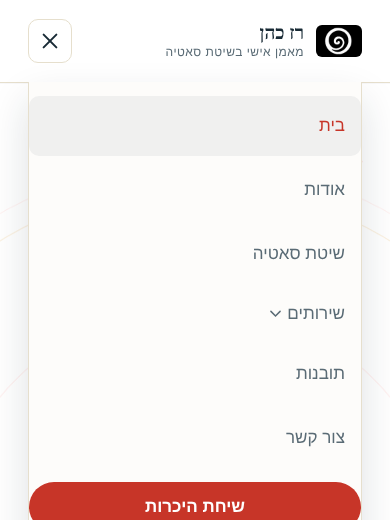
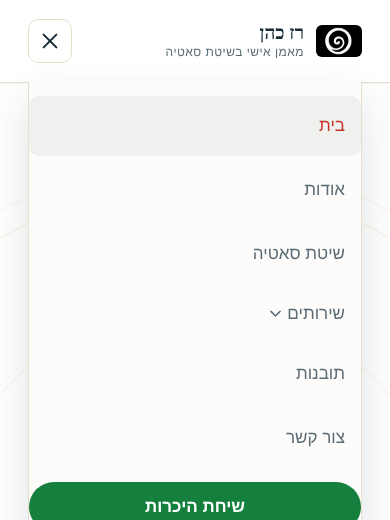
גרסת תוכן לקבצי CSS/JS (#56)
Claude-Session: https://claude.ai/code/session_019EitDQha8axd4jQ3HvUzVX

Changed region(s): [[0.0615, 0.9231, 0.9231, 1.0]]

diff --git a/satya-site/insights/forgiveness.html b/satya-site/insights/forgiveness.html
@@ -104,7 +104,7 @@
 <link rel="preconnect" href="https://fonts.googleapis.com">
 <link rel="preconnect" href="https://fonts.gstatic.com" crossorigin>
 <link rel="stylesheet" href="https://fonts.googleapis.com/css2?family=Frank+Ruhl+Libre:wght@400;500;700&family=Heebo:wght@400;500;600;700&display=swap">
-<link rel="stylesheet" href="../assets/styles.css">
+<link rel="stylesheet" href="../assets/styles.css?v=cc48cf5c">
 <noscript><style>.reveal{opacity:1!important;transform:none!important}</style></noscript>
 </head>
 <body>
@@ -312,6 +312,6 @@
   <svg viewBox="0 0 24 24" fill="#fff" aria-hidden="true" xmlns="http://www.w3.org/2000/svg"><path d="M12.04 2C6.58 2 2.13 6.45 2.13 11.91c0 1.75.46 3.45 1.32 4.95L2.05 22l5.25-1.38a9.9 9.9 0 0 0 4.74 1.21h.01c5.46 0 9.91-4.45 9.91-9.91C21.96 6.45 17.5 2 12.04 2Zm0 18.13h-.01a8.2 8.2 0 0 1-4.19-1.15l-.3-.18-3.12.82.83-3.04-.2-.31a8.2 8.2 0 0 1-1.26-4.36c0-4.54 3.7-8.24 8.25-8.24 2.2 0 4.27.86 5.83 2.42a8.18 8.18 0 0 1 2.41 5.83c0 4.55-3.7 8.21-8.24 8.21Zm4.52-6.16c-.25-.12-1.47-.72-1.69-.81-.23-.08-.39-.12-.56.13-.17.24-.64.81-.78.97-.15.17-.29.19-.53.06-.25-.12-1.05-.39-2-1.23-.74-.66-1.24-1.47-1.38-1.72-.15-.24-.02-.38.11-.5.11-.11.25-.29.37-.43.12-.15.16-.25.24-.41.08-.17.04-.31-.02-.44-.06-.12-.56-1.35-.77-1.85-.2-.48-.41-.42-.56-.42h-.48c-.17 0-.44.06-.67.31-.23.24-.87.85-.87 2.08 0 1.22.89 2.4 1.02 2.57.12.17 1.75 2.67 4.25 3.74.59.26 1.06.41 1.42.53.6.19 1.14.16 1.57.1.48-.07 1.47-.6 1.68-1.18.21-.58.21-1.08.14-1.18-.06-.1-.23-.16-.48-.28Z"/></svg>
 </a>
 
-<script src="../assets/script.js"></script>
+<script src="../assets/script.js?v=8dfb32e8"></script>
 </body>
 </html>

diff --git a/satya-site/insights/habits-and-change.html b/satya-site/insights/habits-and-change.html
@@ -104,7 +104,7 @@
 <link rel="preconnect" href="https://fonts.googleapis.com">
 <link rel="preconnect" href="https://fonts.gstatic.com" crossorigin>
 <link rel="stylesheet" href="https://fonts.googleapis.com/css2?family=Frank+Ruhl+Libre:wght@400;500;700&family=Heebo:wght@400;500;600;700&display=swap">
-<link rel="stylesheet" href="../assets/styles.css">
+<link rel="stylesheet" href="../assets/styles.css?v=cc48cf5c">
 <noscript><style>.reveal{opacity:1!important;transform:none!important}</style></noscript>
 </head>
 <body>
@@ -305,6 +305,6 @@
   <svg viewBox="0 0 24 24" fill="#fff" aria-hidden="true" xmlns="http://www.w3.org/2000/svg"><path d="M12.04 2C6.58 2 2.13 6.45 2.13 11.91c0 1.75.46 3.45 1.32 4.95L2.05 22l5.25-1.38a9.9 9.9 0 0 0 4.74 1.21h.01c5.46 0 9.91-4.45 9.91-9.91C21.96 6.45 17.5 2 12.04 2Zm0 18.13h-.01a8.2 8.2 0 0 1-4.19-1.15l-.3-.18-3.12.82.83-3.04-.2-.31a8.2 8.2 0 0 1-1.26-4.36c0-4.54 3.7-8.24 8.25-8.24 2.2 0 4.27.86 5.83 2.42a8.18 8.18 0 0 1 2.41 5.83c0 4.55-3.7 8.21-8.24 8.21Zm4.52-6.16c-.25-.12-1.47-.72-1.69-.81-.23-.08-.39-.12-.56.13-.17.24-.64.81-.78.97-.15.17-.29.19-.53.06-.25-.12-1.05-.39-2-1.23-.74-.66-1.24-1.47-1.38-1.72-.15-.24-.02-.38.11-.5.11-.11.25-.29.37-.43.12-.15.16-.25.24-.41.08-.17.04-.31-.02-.44-.06-.12-.56-1.35-.77-1.85-.2-.48-.41-.42-.56-.42h-.48c-.17 0-.44.06-.67.31-.23.24-.87.85-.87 2.08 0 1.22.89 2.4 1.02 2.57.12.17 1.75 2.67 4.25 3.74.59.26 1.06.41 1.42.53.6.19 1.14.16 1.57.1.48-.07 1.47-.6 1.68-1.18.21-.58.21-1.08.14-1.18-.06-.1-.23-.16-.48-.28Z"/></svg>
 </a>
 
-<script src="../assets/script.js"></script>
+<script src="../assets/script.js?v=8dfb32e8"></script>
 </body>
 </html>

diff --git a/satya-site/insights/intimacy-vulnerability.html b/satya-site/insights/intimacy-vulnerability.html
@@ -104,7 +104,7 @@
 <link rel="preconnect" href="https://fonts.googleapis.com">
 <link rel="preconnect" href="https://fonts.gstatic.com" crossorigin>
 <link rel="stylesheet" href="https://fonts.googleapis.com/css2?family=Frank+Ruhl+Libre:wght@400;500;700&family=Heebo:wght@400;500;600;700&display=swap">
-<link rel="stylesheet" href="../assets/styles.css">
+<link rel="stylesheet" href="../assets/styles.css?v=cc48cf5c">
 <noscript><style>.reveal{opacity:1!important;transform:none!important}</style></noscript>
 </head>
 <body>
@@ -306,6 +306,6 @@
   <svg viewBox="0 0 24 24" fill="#fff" aria-hidden="true" xmlns="http://www.w3.org/2000/svg"><path d="M12.04 2C6.58 2 2.13 6.45 2.13 11.91c0 1.75.46 3.45 1.32 4.95L2.05 22l5.25-1.38a9.9 9.9 0 0 0 4.74 1.21h.01c5.46 0 9.91-4.45 9.91-9.91C21.96 6.45 17.5 2 12.04 2Zm0 18.13h-.01a8.2 8.2 0 0 1-4.19-1.15l-.3-.18-3.12.82.83-3.04-.2-.31a8.2 8.2 0 0 1-1.26-4.36c0-4.54 3.7-8.24 8.25-8.24 2.2 0 4.27.86 5.83 2.42a8.18 8.18 0 0 1 2.41 5.83c0 4.55-3.7 8.21-8.24 8.21Zm4.52-6.16c-.25-.12-1.47-.72-1.69-.81-.23-.08-.39-.12-.56.13-.17.24-.64.81-.78.97-.15.17-.29.19-.53.06-.25-.12-1.05-.39-2-1.23-.74-.66-1.24-1.47-1.38-1.72-.15-.24-.02-.38.11-.5.11-.11.25-.29.37-.43.12-.15.16-.25.24-.41.08-.17.04-.31-.02-.44-.06-.12-.56-1.35-.77-1.85-.2-.48-.41-.42-.56-.42h-.48c-.17 0-.44.06-.67.31-.23.24-.87.85-.87 2.08 0 1.22.89 2.4 1.02 2.57.12.17 1.75 2.67 4.25 3.74.59.26 1.06.41 1.42.53.6.19 1.14.16 1.57.1.48-.07 1.47-.6 1.68-1.18.21-.58.21-1.08.14-1.18-.06-.1-.23-.16-.48-.28Z"/></svg>
 </a>
 
-<script src="../assets/script.js"></script>
+<script src="../assets/script.js?v=8dfb32e8"></script>
 </body>
 </html>

diff --git a/satya-site/insights/karma.html b/satya-site/insights/karma.html
@@ -104,7 +104,7 @@
 <link rel="preconnect" href="https://fonts.googleapis.com">
 <link rel="preconnect" href="https://fonts.gstatic.com" crossorigin>
 <link rel="stylesheet" href="https://fonts.googleapis.com/css2?family=Frank+Ruhl+Libre:wght@400;500;700&family=Heebo:wght@400;500;600;700&display=swap">
-<link rel="stylesheet" href="../assets/styles.css">
+<link rel="stylesheet" href="../assets/styles.css?v=cc48cf5c">
 <noscript><style>.reveal{opacity:1!important;transform:none!important}</style></noscript>
 </head>
 <body>
@@ -302,6 +302,6 @@
   <svg viewBox="0 0 24 24" fill="#fff" aria-hidden="true" xmlns="http://www.w3.org/2000/svg"><path d="M12.04 2C6.58 2 2.13 6.45 2.13 11.91c0 1.75.46 3.45 1.32 4.95L2.05 22l5.25-1.38a9.9 9.9 0 0 0 4.74 1.21h.01c5.46 0 9.91-4.45 9.91-9.91C21.96 6.45 17.5 2 12.04 2Zm0 18.13h-.01a8.2 8.2 0 0 1-4.19-1.15l-.3-.18-3.12.82.83-3.04-.2-.31a8.2 8.2 0 0 1-1.26-4.36c0-4.54 3.7-8.24 8.25-8.24 2.2 0 4.27.86 5.83 2.42a8.18 8.18 0 0 1 2.41 5.83c0 4.55-3.7 8.21-8.24 8.21Zm4.52-6.16c-.25-.12-1.47-.72-1.69-.81-.23-.08-.39-.12-.56.13-.17.24-.64.81-.78.97-.15.17-.29.19-.53.06-.25-.12-1.05-.39-2-1.23-.74-.66-1.24-1.47-1.38-1.72-.15-.24-.02-.38.11-.5.11-.11.25-.29.37-.43.12-.15.16-.25.24-.41.08-.17.04-.31-.02-.44-.06-.12-.56-1.35-.77-1.85-.2-.48-.41-.42-.56-.42h-.48c-.17 0-.44.06-.67.31-.23.24-.87.85-.87 2.08 0 1.22.89 2.4 1.02 2.57.12.17 1.75 2.67 4.25 3.74.59.26 1.06.41 1.42.53.6.19 1.14.16 1.57.1.48-.07 1.47-.6 1.68-1.18.21-.58.21-1.08.14-1.18-.06-.1-.23-.16-.48-.28Z"/></svg>
 </a>
 
-<script src="../assets/script.js"></script>
+<script src="../assets/script.js?v=8dfb32e8"></script>
 </body>
 </html>

diff --git a/satya-site/insights/presence.html b/satya-site/insights/presence.html
@@ -104,7 +104,7 @@
 <link rel="preconnect" href="https://fonts.googleapis.com">
 <link rel="preconnect" href="https://fonts.gstatic.com" crossorigin>
 <link rel="stylesheet" href="https://fonts.googleapis.com/css2?family=Frank+Ruhl+Libre:wght@400;500;700&family=Heebo:wght@400;500;600;700&display=swap">
-<link rel="stylesheet" href="../assets/styles.css">
+<link rel="stylesheet" href="../assets/styles.css?v=cc48cf5c">
 <noscript><style>.reveal{opacity:1!important;transform:none!important}</style></noscript>
 </head>
 <body>
@@ -301,6 +301,6 @@
   <svg viewBox="0 0 24 24" fill="#fff" aria-hidden="true" xmlns="http://www.w3.org/2000/svg"><path d="M12.04 2C6.58 2 2.13 6.45 2.13 11.91c0 1.75.46 3.45 1.32 4.95L2.05 22l5.25-1.38a9.9 9.9 0 0 0 4.74 1.21h.01c5.46 0 9.91-4.45 9.91-9.91C21.96 6.45 17.5 2 12.04 2Zm0 18.13h-.01a8.2 8.2 0 0 1-4.19-1.15l-.3-.18-3.12.82.83-3.04-.2-.31a8.2 8.2 0 0 1-1.26-4.36c0-4.54 3.7-8.24 8.25-8.24 2.2 0 4.27.86 5.83 2.42a8.18 8.18 0 0 1 2.41 5.83c0 4.55-3.7 8.21-8.24 8.21Zm4.52-6.16c-.25-.12-1.47-.72-1.69-.81-.23-.08-.39-.12-.56.13-.17.24-.64.81-.78.97-.15.17-.29.19-.53.06-.25-.12-1.05-.39-2-1.23-.74-.66-1.24-1.47-1.38-1.72-.15-.24-.02-.38.11-.5.11-.11.25-.29.37-.43.12-.15.16-.25.24-.41.08-.17.04-.31-.02-.44-.06-.12-.56-1.35-.77-1.85-.2-.48-.41-.42-.56-.42h-.48c-.17 0-.44.06-.67.31-.23.24-.87.85-.87 2.08 0 1.22.89 2.4 1.02 2.57.12.17 1.75 2.67 4.25 3.74.59.26 1.06.41 1.42.53.6.19 1.14.16 1.57.1.48-.07 1.47-.6 1.68-1.18.21-.58.21-1.08.14-1.18-.06-.1-.23-.16-.48-.28Z"/></svg>
 </a>
 
-<script src="../assets/script.js"></script>
+<script src="../assets/script.js?v=8dfb32e8"></script>
 </body>
 </html>

diff --git a/satya-site/insights/transformation.html b/satya-site/insights/transformation.html
@@ -104,7 +104,7 @@
 <link rel="preconnect" href="https://fonts.googleapis.com">
 <link rel="preconnect" href="https://fonts.gstatic.com" crossorigin>
 <link rel="stylesheet" href="https://fonts.googleapis.com/css2?family=Frank+Ruhl+Libre:wght@400;500;700&family=Heebo:wght@400;500;600;700&display=swap">
-<link rel="stylesheet" href="../assets/styles.css">
+<link rel="stylesheet" href="../assets/styles.css?v=cc48cf5c">
 <noscript><style>.reveal{opacity:1!important;transform:none!important}</style></noscript>
 </head>
 <body>
@@ -305,6 +305,6 @@
   <svg viewBox="0 0 24 24" fill="#fff" aria-hidden="true" xmlns="http://www.w3.org/2000/svg"><path d="M12.04 2C6.58 2 2.13 6.45 2.13 11.91c0 1.75.46 3.45 1.32 4.95L2.05 22l5.25-1.38a9.9 9.9 0 0 0 4.74 1.21h.01c5.46 0 9.91-4.45 9.91-9.91C21.96 6.45 17.5 2 12.04 2Zm0 18.13h-.01a8.2 8.2 0 0 1-4.19-1.15l-.3-.18-3.12.82.83-3.04-.2-.31a8.2 8.2 0 0 1-1.26-4.36c0-4.54 3.7-8.24 8.25-8.24 2.2 0 4.27.86 5.83 2.42a8.18 8.18 0 0 1 2.41 5.83c0 4.55-3.7 8.21-8.24 8.21Zm4.52-6.16c-.25-.12-1.47-.72-1.69-.81-.23-.08-.39-.12-.56.13-.17.24-.64.81-.78.97-.15.17-.29.19-.53.06-.25-.12-1.05-.39-2-1.23-.74-.66-1.24-1.47-1.38-1.72-.15-.24-.02-.38.11-.5.11-.11.25-.29.37-.43.12-.15.16-.25.24-.41.08-.17.04-.31-.02-.44-.06-.12-.56-1.35-.77-1.85-.2-.48-.41-.42-.56-.42h-.48c-.17 0-.44.06-.67.31-.23.24-.87.85-.87 2.08 0 1.22.89 2.4 1.02 2.57.12.17 1.75 2.67 4.25 3.74.59.26 1.06.41 1.42.53.6.19 1.14.16 1.57.1.48-.07 1.47-.6 1.68-1.18.21-.58.21-1.08.14-1.18-.06-.1-.23-.16-.48-.28Z"/></svg>
 </a>
 
-<script src="../assets/script.js"></script>
+<script src="../assets/script.js?v=8dfb32e8"></script>
 </body>
 </html>

diff --git a/satya-site/404.html b/satya-site/404.html
@@ -12,7 +12,7 @@
 <link rel="preconnect" href="https://fonts.googleapis.com">
 <link rel="preconnect" href="https://fonts.gstatic.com" crossorigin>
 <link rel="stylesheet" href="https://fonts.googleapis.com/css2?family=Frank+Ruhl+Libre:wght@400;500;700&family=Heebo:wght@400;500;600;700&display=swap">
-<link rel="stylesheet" href="/assets/styles.css">
+<link rel="stylesheet" href="/assets/styles.css?v=cc48cf5c">
 <noscript><style>.reveal{opacity:1!important;transform:none!important}</style></noscript>
 </head>
 <body>
@@ -208,6 +208,6 @@
   <svg viewBox="0 0 24 24" fill="#fff" aria-hidden="true" xmlns="http://www.w3.org/2000/svg"><path d="M12.04 2C6.58 2 2.13 6.45 2.13 11.91c0 1.75.46 3.45 1.32 4.95L2.05 22l5.25-1.38a9.9 9.9 0 0 0 4.74 1.21h.01c5.46 0 9.91-4.45 9.91-9.91C21.96 6.45 17.5 2 12.04 2Zm0 18.13h-.01a8.2 8.2 0 0 1-4.19-1.15l-.3-.18-3.12.82.83-3.04-.2-.31a8.2 8.2 0 0 1-1.26-4.36c0-4.54 3.7-8.24 8.25-8.24 2.2 0 4.27.86 5.83 2.42a8.18 8.18 0 0 1 2.41 5.83c0 4.55-3.7 8.21-8.24 8.21Zm4.52-6.16c-.25-.12-1.47-.72-1.69-.81-.23-.08-.39-.12-.56.13-.17.24-.64.81-.78.97-.15.17-.29.19-.53.06-.25-.12-1.05-.39-2-1.23-.74-.66-1.24-1.47-1.38-1.72-.15-.24-.02-.38.11-.5.11-.11.25-.29.37-.43.12-.15.16-.25.24-.41.08-.17.04-.31-.02-.44-.06-.12-.56-1.35-.77-1.85-.2-.48-.41-.42-.56-.42h-.48c-.17 0-.44.06-.67.31-.23.24-.87.85-.87 2.08 0 1.22.89 2.4 1.02 2.57.12.17 1.75 2.67 4.25 3.74.59.26 1.06.41 1.42.53.6.19 1.14.16 1.57.1.48-.07 1.47-.6 1.68-1.18.21-.58.21-1.08.14-1.18-.06-.1-.23-.16-.48-.28Z"/></svg>
 </a>
 
-<script src="/assets/script.js"></script>
+<script src="/assets/script.js?v=8dfb32e8"></script>
 </body>
 </html>

diff --git a/satya-site/contact.html b/satya-site/contact.html
@@ -104,7 +104,7 @@
 <link rel="preconnect" href="https://fonts.googleapis.com">
 <link rel="preconnect" href="https://fonts.gstatic.com" crossorigin>
 <link rel="stylesheet" href="https://fonts.googleapis.com/css2?family=Frank+Ruhl+Libre:wght@400;500;700&family=Heebo:wght@400;500;600;700&display=swap">
-<link rel="stylesheet" href="assets/styles.css">
+<link rel="stylesheet" href="assets/styles.css?v=cc48cf5c">
 <noscript><style>.reveal{opacity:1!important;transform:none!important}</style></noscript>
 </head>
 <body>
@@ -370,6 +370,6 @@
   <svg viewBox="0 0 24 24" fill="#fff" aria-hidden="true" xmlns="http://www.w3.org/2000/svg"><path d="M12.04 2C6.58 2 2.13 6.45 2.13 11.91c0 1.75.46 3.45 1.32 4.95L2.05 22l5.25-1.38a9.9 9.9 0 0 0 4.74 1.21h.01c5.46 0 9.91-4.45 9.91-9.91C21.96 6.45 17.5 2 12.04 2Zm0 18.13h-.01a8.2 8.2 0 0 1-4.19-1.15l-.3-.18-3.12.82.83-3.04-.2-.31a8.2 8.2 0 0 1-1.26-4.36c0-4.54 3.7-8.24 8.25-8.24 2.2 0 4.27.86 5.83 2.42a8.18 8.18 0 0 1 2.41 5.83c0 4.55-3.7 8.21-8.24 8.21Zm4.52-6.16c-.25-.12-1.47-.72-1.69-.81-.23-.08-.39-.12-.56.13-.17.24-.64.81-.78.97-.15.17-.29.19-.53.06-.25-.12-1.05-.39-2-1.23-.74-.66-1.24-1.47-1.38-1.72-.15-.24-.02-.38.11-.5.11-.11.25-.29.37-.43.12-.15.16-.25.24-.41.08-.17.04-.31-.02-.44-.06-.12-.56-1.35-.77-1.85-.2-.48-.41-.42-.56-.42h-.48c-.17 0-.44.06-.67.31-.23.24-.87.85-.87 2.08 0 1.22.89 2.4 1.02 2.57.12.17 1.75 2.67 4.25 3.74.59.26 1.06.41 1.42.53.6.19 1.14.16 1.57.1.48-.07 1.47-.6 1.68-1.18.21-.58.21-1.08.14-1.18-.06-.1-.23-.16-.48-.28Z"/></svg>
 </a>
 
-<script src="assets/script.js"></script>
+<script src="assets/script.js?v=8dfb32e8"></script>
 </body>
 </html>

diff --git a/satya-site/teens-coaching.html b/satya-site/teens-coaching.html
@@ -118,7 +118,7 @@
 <link rel="preconnect" href="https://fonts.googleapis.com">
 <link rel="preconnect" href="https://fonts.gstatic.com" crossorigin>
 <link rel="stylesheet" href="https://fonts.googleapis.com/css2?family=Frank+Ruhl+Libre:wght@400;500;700&family=Heebo:wght@400;500;600;700&display=swap">
-<link rel="stylesheet" href="assets/styles.css">
+<link rel="stylesheet" href="assets/styles.css?v=cc48cf5c">
 <noscript><style>.reveal{opacity:1!important;transform:none!important}</style></noscript>
 </head>
 <body>
@@ -410,6 +410,6 @@
   <svg viewBox="0 0 24 24" fill="#fff" aria-hidden="true" xmlns="http://www.w3.org/2000/svg"><path d="M12.04 2C6.58 2 2.13 6.45 2.13 11.91c0 1.75.46 3.45 1.32 4.95L2.05 22l5.25-1.38a9.9 9.9 0 0 0 4.74 1.21h.01c5.46 0 9.91-4.45 9.91-9.91C21.96 6.45 17.5 2 12.04 2Zm0 18.13h-.01a8.2 8.2 0 0 1-4.19-1.15l-.3-.18-3.12.82.83-3.04-.2-.31a8.2 8.2 0 0 1-1.26-4.36c0-4.54 3.7-8.24 8.25-8.24 2.2 0 4.27.86 5.83 2.42a8.18 8.18 0 0 1 2.41 5.83c0 4.55-3.7 8.21-8.24 8.21Zm4.52-6.16c-.25-.12-1.47-.72-1.69-.81-.23-.08-.39-.12-.56.13-.17.24-.64.81-.78.97-.15.17-.29.19-.53.06-.25-.12-1.05-.39-2-1.23-.74-.66-1.24-1.47-1.38-1.72-.15-.24-.02-.38.11-.5.11-.11.25-.29.37-.43.12-.15.16-.25.24-.41.08-.17.04-.31-.02-.44-.06-.12-.56-1.35-.77-1.85-.2-.48-.41-.42-.56-.42h-.48c-.17 0-.44.06-.67.31-.23.24-.87.85-.87 2.08 0 1.22.89 2.4 1.02 2.57.12.17 1.75 2.67 4.25 3.74.59.26 1.06.41 1.42.53.6.19 1.14.16 1.57.1.48-.07 1.47-.6 1.68-1.18.21-.58.21-1.08.14-1.18-.06-.1-.23-.16-.48-.28Z"/></svg>
 </a>
 
-<script src="assets/script.js"></script>
+<script src="assets/script.js?v=8dfb32e8"></script>
 </body>
 </html>

diff --git a/satya-site/about.html b/satya-site/about.html
@@ -72,7 +72,7 @@
 <link rel="preconnect" href="https://fonts.googleapis.com">
 <link rel="preconnect" href="https://fonts.gstatic.com" crossorigin>
 <link rel="stylesheet" href="https://fonts.googleapis.com/css2?family=Frank+Ruhl+Libre:wght@400;500;700&family=Heebo:wght@400;500;600;700&display=swap">
-<link rel="stylesheet" href="assets/styles.css">
+<link rel="stylesheet" href="assets/styles.css?v=cc48cf5c">
 <noscript><style>.reveal{opacity:1!important;transform:none!important}</style></noscript>
 </head>
 <body>
@@ -334,6 +334,6 @@
   <svg viewBox="0 0 24 24" fill="#fff" aria-hidden="true" xmlns="http://www.w3.org/2000/svg"><path d="M12.04 2C6.58 2 2.13 6.45 2.13 11.91c0 1.75.46 3.45 1.32 4.95L2.05 22l5.25-1.38a9.9 9.9 0 0 0 4.74 1.21h.01c5.46 0 9.91-4.45 9.91-9.91C21.96 6.45 17.5 2 12.04 2Zm0 18.13h-.01a8.2 8.2 0 0 1-4.19-1.15l-.3-.18-3.12.82.83-3.04-.2-.31a8.2 8.2 0 0 1-1.26-4.36c0-4.54 3.7-8.24 8.25-8.24 2.2 0 4.27.86 5.83 2.42a8.18 8.18 0 0 1 2.41 5.83c0 4.55-3.7 8.21-8.24 8.21Zm4.52-6.16c-.25-.12-1.47-.72-1.69-.81-.23-.08-.39-.12-.56.13-.17.24-.64.81-.78.97-.15.17-.29.19-.53.06-.25-.12-1.05-.39-2-1.23-.74-.66-1.24-1.47-1.38-1.72-.15-.24-.02-.38.11-.5.11-.11.25-.29.37-.43.12-.15.16-.25.24-.41.08-.17.04-.31-.02-.44-.06-.12-.56-1.35-.77-1.85-.2-.48-.41-.42-.56-.42h-.48c-.17 0-.44.06-.67.31-.23.24-.87.85-.87 2.08 0 1.22.89 2.4 1.02 2.57.12.17 1.75 2.67 4.25 3.74.59.26 1.06.41 1.42.53.6.19 1.14.16 1.57.1.48-.07 1.47-.6 1.68-1.18.21-.58.21-1.08.14-1.18-.06-.1-.23-.16-.48-.28Z"/></svg>
 </a>
 
-<script src="assets/script.js"></script>
+<script src="assets/script.js?v=8dfb32e8"></script>
 </body>
 </html>

diff --git a/satya-site/accessibility.html b/satya-site/accessibility.html
@@ -72,7 +72,7 @@
 <link rel="preconnect" href="https://fonts.googleapis.com">
 <link rel="preconnect" href="https://fonts.gstatic.com" crossorigin>
 <link rel="stylesheet" href="https://fonts.googleapis.com/css2?family=Frank+Ruhl+Libre:wght@400;500;700&family=Heebo:wght@400;500;600;700&display=swap">
-<link rel="stylesheet" href="assets/styles.css">
+<link rel="stylesheet" href="assets/styles.css?v=cc48cf5c">
 <noscript><style>.reveal{opacity:1!important;transform:none!important}</style></noscript>
 </head>
 <body>
@@ -275,6 +275,6 @@
   <svg viewBox="0 0 24 24" fill="#fff" aria-hidden="true" xmlns="http://www.w3.org/2000/svg"><path d="M12.04 2C6.58 2 2.13 6.45 2.13 11.91c0 1.75.46 3.45 1.32 4.95L2.05 22l5.25-1.38a9.9 9.9 0 0 0 4.74 1.21h.01c5.46 0 9.91-4.45 9.91-9.91C21.96 6.45 17.5 2 12.04 2Zm0 18.13h-.01a8.2 8.2 0 0 1-4.19-1.15l-.3-.18-3.12.82.83-3.04-.2-.31a8.2 8.2 0 0 1-1.26-4.36c0-4.54 3.7-8.24 8.25-8.24 2.2 0 4.27.86 5.83 2.42a8.18 8.18 0 0 1 2.41 5.83c0 4.55-3.7 8.21-8.24 8.21Zm4.52-6.16c-.25-.12-1.47-.72-1.69-.81-.23-.08-.39-.12-.56.13-.17.24-.64.81-.78.97-.15.17-.29.19-.53.06-.25-.12-1.05-.39-2-1.23-.74-.66-1.24-1.47-1.38-1.72-.15-.24-.02-.38.11-.5.11-.11.25-.29.37-.43.12-.15.16-.25.24-.41.08-.17.04-.31-.02-.44-.06-.12-.56-1.35-.77-1.85-.2-.48-.41-.42-.56-.42h-.48c-.17 0-.44.06-.67.31-.23.24-.87.85-.87 2.08 0 1.22.89 2.4 1.02 2.57.12.17 1.75 2.67 4.25 3.74.59.26 1.06.41 1.42.53.6.19 1.14.16 1.57.1.48-.07 1.47-.6 1.68-1.18.21-.58.21-1.08.14-1.18-.06-.1-.23-.16-.48-.28Z"/></svg>
 </a>
 
-<script src="assets/script.js"></script>
+<script src="assets/script.js?v=8dfb32e8"></script>
 </body>
 </html>

diff --git a/satya-site/clear-way.html b/satya-site/clear-way.html
@@ -78,7 +78,7 @@
 <link rel="preconnect" href="https://fonts.googleapis.com">
 <link rel="preconnect" href="https://fonts.gstatic.com" crossorigin>
 <link rel="stylesheet" href="https://fonts.googleapis.com/css2?family=Frank+Ruhl+Libre:wght@400;500;700&family=Heebo:wght@400;500;600;700&display=swap">
-<link rel="stylesheet" href="assets/styles.css">
+<link rel="stylesheet" href="assets/styles.css?v=cc48cf5c">
 <noscript><style>.reveal{opacity:1!important;transform:none!important}</style></noscript>
 </head>
 <body>
@@ -319,6 +319,6 @@
   <svg viewBox="0 0 24 24" fill="#fff" aria-hidden="true" xmlns="http://www.w3.org/2000/svg"><path d="M12.04 2C6.58 2 2.13 6.45 2.13 11.91c0 1.75.46 3.45 1.32 4.95L2.05 22l5.25-1.38a9.9 9.9 0 0 0 4.74 1.21h.01c5.46 0 9.91-4.45 9.91-9.91C21.96 6.45 17.5 2 12.04 2Zm0 18.13h-.01a8.2 8.2 0 0 1-4.19-1.15l-.3-.18-3.12.82.83-3.04-.2-.31a8.2 8.2 0 0 1-1.26-4.36c0-4.54 3.7-8.24 8.25-8.24 2.2 0 4.27.86 5.83 2.42a8.18 8.18 0 0 1 2.41 5.83c0 4.55-3.7 8.21-8.24 8.21Zm4.52-6.16c-.25-.12-1.47-.72-1.69-.81-.23-.08-.39-.12-.56.13-.17.24-.64.81-.78.97-.15.17-.29.19-.53.06-.25-.12-1.05-.39-2-1.23-.74-.66-1.24-1.47-1.38-1.72-.15-.24-.02-.38.11-.5.11-.11.25-.29.37-.43.12-.15.16-.25.24-.41.08-.17.04-.31-.02-.44-.06-.12-.56-1.35-.77-1.85-.2-.48-.41-.42-.56-.42h-.48c-.17 0-.44.06-.67.31-.23.24-.87.85-.87 2.08 0 1.22.89 2.4 1.02 2.57.12.17 1.75 2.67 4.25 3.74.59.26 1.06.41 1.42.53.6.19 1.14.16 1.57.1.48-.07 1.47-.6 1.68-1.18.21-.58.21-1.08.14-1.18-.06-.1-.23-.16-.48-.28Z"/></svg>
 </a>
 
-<script src="assets/script.js"></script>
+<script src="assets/script.js?v=8dfb32e8"></script>
 </body>
 </html>
